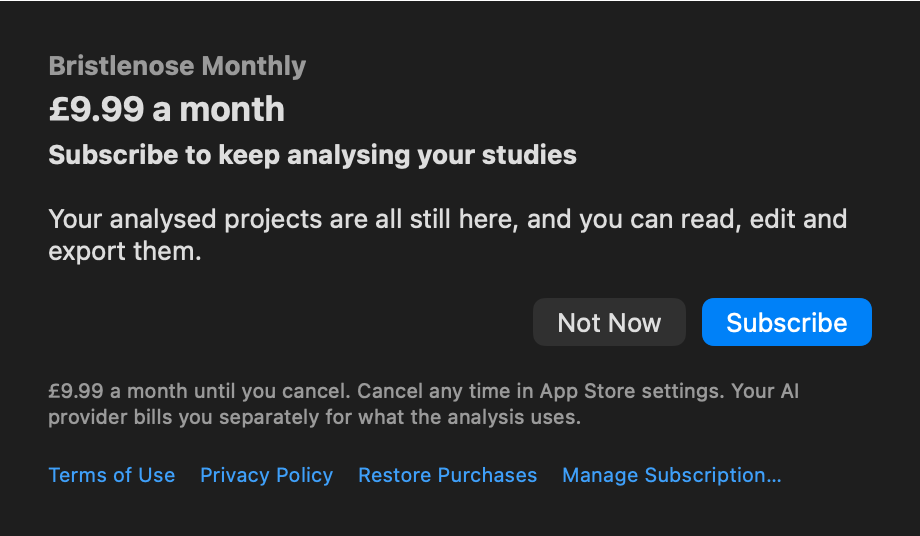
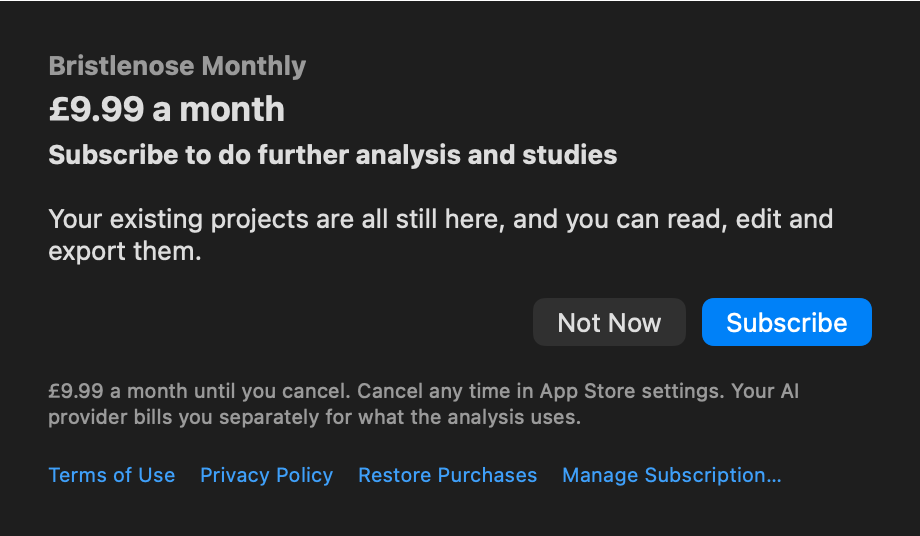
mockup: the owner's wording for the paywall's lapsed lines

Changed region(s): [[0.1217, 0.3881, 0.9435, 0.4478], [0.213, 0.2687, 0.6696, 0.3284]]

diff --git a/docs/mockups/paywall-iap-fixes.html b/docs/mockups/paywall-iap-fixes.html
@@ -106,12 +106,13 @@
       <img class="light-only" src="paywall-iap-fixes/before-lapsed-light.png" alt="Shipped lapsed paywall: title Subscribe to keep analysing your studies; price only in small print.">
       <img class="dark-only" src="paywall-iap-fixes/before-lapsed-dark.png" alt="Shipped lapsed paywall, dark appearance."></div></figure>
     <figure><div class="shot"><div class="bar">after · proposed</div>
-      <img class="light-only" src="paywall-iap-fixes/after-lapsed-light.png" alt="Proposed lapsed paywall: Bristlenose Monthly, £9.99 a month, then Subscribe to keep analysing your studies.">
+      <img class="light-only" src="paywall-iap-fixes/after-lapsed-light.png" alt="Proposed lapsed paywall: Bristlenose Monthly, £9.99 a month, then Subscribe to do further analysis and studies.">
       <img class="dark-only" src="paywall-iap-fixes/after-lapsed-dark.png" alt="Proposed lapsed paywall, dark appearance."></div></figure>
   </div>
   <div class="commentary"><span class="label">Commentary</span>
     <ul>
-      <li>Same structure as the trial sheet: name, price, then one line. Your approved line "Subscribe to keep analysing your studies" stays word for word, one size down (headline instead of title).</li>
+      <li>Same structure as the trial sheet: name, price, then one line, one size down from the title (headline).</li>
+      <li>Your wording, 25 Nov: "Subscribe to do further analysis and studies" (was "Subscribe to keep analysing your studies"), and "Your existing projects are all still here…" (was "Your analysed projects…").</li>
       <li>One layout for both states means one code path, so the price can't fall back into the footnote in either.</li>
     </ul>
   </div>
@@ -134,7 +135,7 @@
 
   <h2>Strings</h2>
   <div class="commentary"><span class="label">Commentary · string plan</span>
-    <p>Two new keys, two changed. Each is a 21-locale change (<code>scripts/check-locales.py --strict</code>). Highlighted cells are new wording for you to approve.</p>
+    <p>Two new keys, four changed. Each is a 21-locale change (<code>scripts/check-locales.py --strict</code>). Highlighted cells are new wording for you to approve.</p>
     <table>
       <thead><tr><th>Key <code>desktop.subscription.*</code></th><th>Status</th><th>en</th></tr></thead>
       <tbody>
@@ -143,7 +144,8 @@
         <tr><td><code>trialTerms</code></td><td>changed: "7 days" becomes <code>{{trial}}</code></td><td>Free for {{trial}}, then {{price}} a month until you cancel. Cancel any time in App Store settings, at least a day before the trial ends to avoid being charged. Your AI provider bills you separately for what the analysis uses.</td></tr>
         <tr><td><code>pending</code></td><td>changed</td><td class="new">Waiting for approval. Once it is approved, press Analyse again.</td></tr>
         <tr><td><code>trialTitle</code></td><td>retired</td><td>Try Bristlenose free for 7 days</td></tr>
-        <tr><td><code>lapsedTitle</code></td><td>kept, smaller</td><td>Subscribe to keep analysing your studies</td></tr>
+        <tr><td><code>lapsedTitle</code></td><td>changed (yours, 25 Nov), one size smaller</td><td class="new">Subscribe to do further analysis and studies</td></tr>
+        <tr><td><code>lapsedBody</code></td><td>changed (yours, 25 Nov)</td><td class="new">Your existing projects are all still here, and you can read, edit and export them.</td></tr>
       </tbody>
     </table>
     <p style="margin-top:10px">"a month" stays written in the strings: there is one product and it is monthly. A test already pins the period to one month (<code>SubscriptionGateTests.swift:103</code>), so a change in App Store Connect fails a test instead of reaching the sheet.</p>
@@ -153,9 +155,9 @@
   <div class="commentary"><span class="label">Commentary · decisions</span>
     <ol>
       <li>Approve the trial layout (name, price as title, trial line).</li>
-      <li>Approve the lapsed layout, with your approved title one size down.</li>
+      <li>Approve the lapsed layout, with your new wording one size below the price.</li>
       <li>Ask to Buy: the honest copy shown here, or keep the promise in code.</li>
-      <li>Approve the four highlighted strings.</li>
+      <li>Approve the six highlighted strings.</li>
     </ol>
     <p>Not in this mockup: the "App Store isn't available" sheet (unchanged; it stops appearing once the subscription exists in App Store Connect), and the Terms of Use link, which waits for the EULA research.</p>
   </div>

diff --git a/docs/mockups/paywall-iap-fixes/render.swift b/docs/mockups/paywall-iap-fixes/render.swift
@@ -27,6 +27,8 @@ let proposed: [String: String] = [
     "trialLead": "Free for the first {{trial}}.",
     "trialTerms": "Free for {{trial}}, then {{price}} a month until you cancel. Cancel any time in App Store settings, at least a day before the trial ends to avoid being charged. Your AI provider bills you separately for what the analysis uses.",
     "pending": "Waiting for approval. Once it is approved, press Analyse again.",
+    "lapsedTitle": "Subscribe to do further analysis and studies",
+    "lapsedBody": "Your existing projects are all still here, and you can read, edit and export them.",
 ]
 
 func t(_ key: String, _ vars: [String: String] = [:], new: Bool = false) -> String {
@@ -81,7 +83,7 @@ struct Proposed: View {
             VStack(alignment: .leading, spacing: 4) {
                 Text(planName).font(.headline).foregroundStyle(.secondary)
                 Text(t("pricePerMonth", ["price": price], new: true)).font(.title2.bold())
-                Text(trial ? t("trialLead", ["trial": trialLength], new: true) : t("lapsedTitle"))
+                Text(trial ? t("trialLead", ["trial": trialLength], new: true) : t("lapsedTitle", new: true))
                     .font(.headline)
                     .fixedSize(horizontal: false, vertical: true)
             }
@@ -89,7 +91,7 @@ struct Proposed: View {
                 Text(t("aiBilling")).foregroundStyle(.secondary)
                     .fixedSize(horizontal: false, vertical: true)
             }
-            Text(t(trial ? "trialBody" : "lapsedBody")).fixedSize(horizontal: false, vertical: true)
+            Text(trial ? t("trialBody") : t("lapsedBody", new: true)).fixedSize(horizontal: false, vertical: true)
             if let message {
                 Text(message).foregroundStyle(.secondary).fixedSize(horizontal: false, vertical: true)
             }

diff --git a/docs/mockups/STATUS.md b/docs/mockups/STATUS.md
@@ -38,7 +38,7 @@ state is still evidenced, the day is not.
 | `multi-mac-draft-recovery.html` | 28 Oct 2026 | PROPOSED — recovery disclosure and copy separation within the existing status popover; the illustrated reader is not implemented or approved to ship. |
 | `multi-mac-study.html` | 27 Oct 2026 | PARKED — historical full N-Mac/version-choice exploration; not the sequential v1 build target and not shipped. |
 | `multi-mac-v1-guards.html` | 27 Oct 2026 | PROPOSED — reduced enforced-lock review aid; warning-only comparisons are historical and do not authorise release. The optional reader remains deferred and unshipped. |
-| `paywall-iap-fixes.html` | 25 Nov 2026 | PROPOSED 25 Nov 2026 — paywall 3.1.2 fixes (price prominence, plan name, trial from StoreKit, Ask to Buy copy); awaiting owner approval |
+| `paywall-iap-fixes.html` | 25 Nov 2026 | PROPOSED 25 Nov 2026 — paywall 3.1.2 fixes (price prominence, plan name, trial from StoreKit, Ask to Buy copy; owner reworded the lapsed lines); awaiting owner approval |
 | `study-startup-refusal.html` | 28 Oct 2026 | PROPOSED — reuses native failure row/popover/unavailable patterns for reduced startup refusal; source review clean after accurate heading/details-toggle fixes. Visual inspection blocked by browser policy; owner approval pending. No production UX wiring. |
 
 ## analysis
